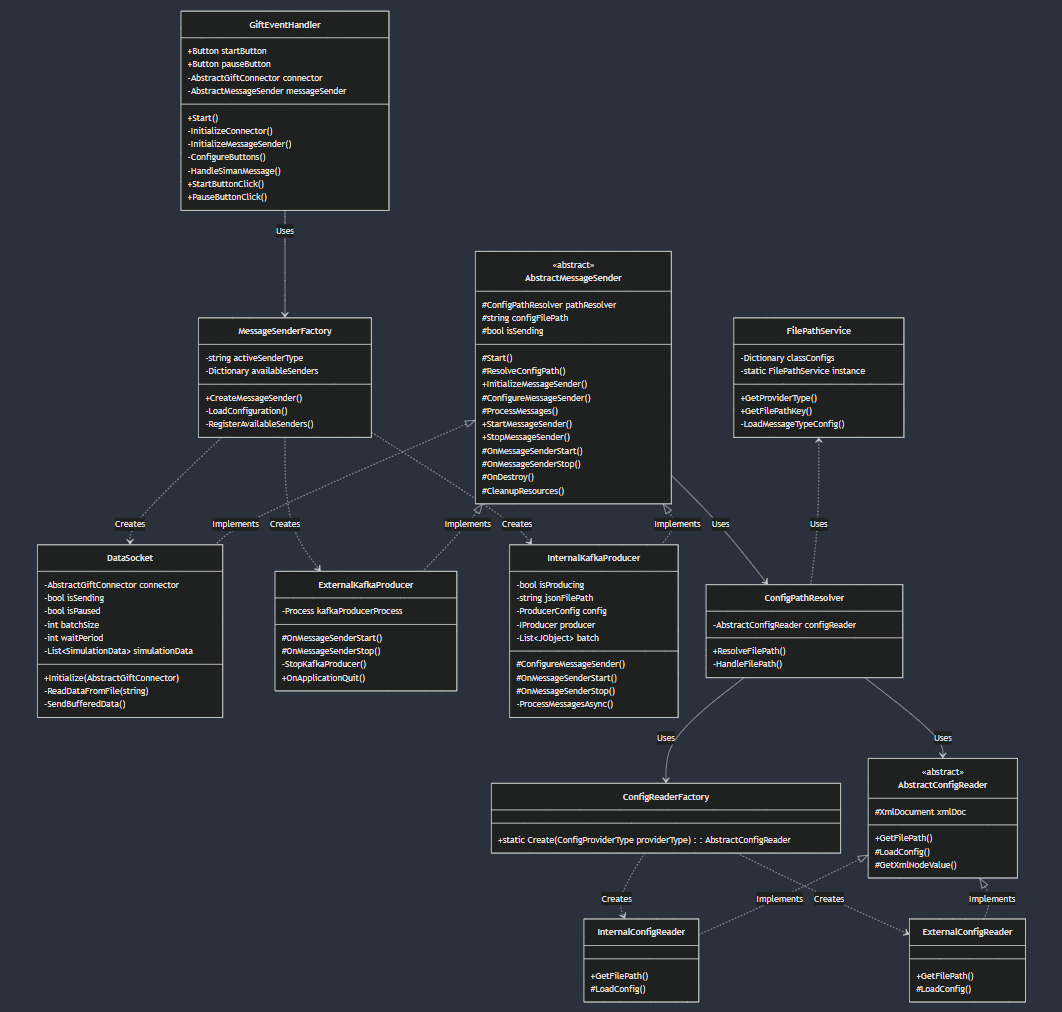
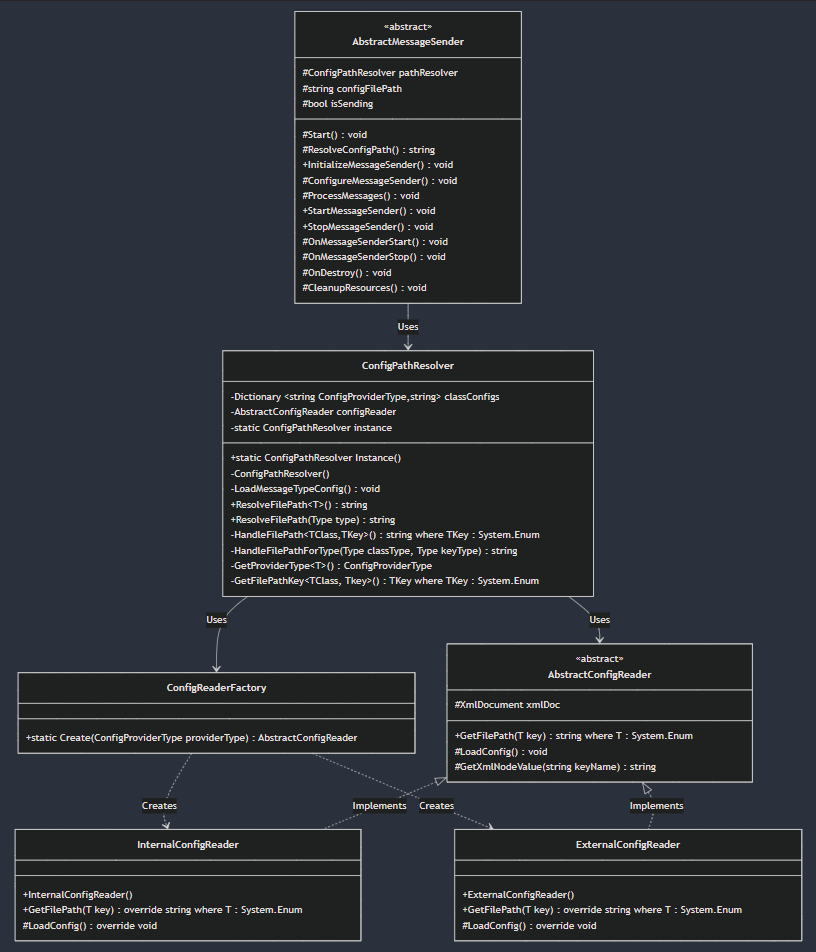
Updated the running notes to have the latest changes

diff --git a/Documentation/RunningNotes.md b/Documentation/RunningNotes.md
@@ -41,37 +41,45 @@ The class diagram for the above is here ![GIFT Interop Plugin Class Diagram](GIF
 
 **Unity Side interop plugin design pattern**
 
-1) We are using [GiftEventHandler.cs](https://github.com/kgary/steel-artt-unity-team-se/blob/unity-with-kafka-producer/unity-template/Assets/GiftEventHandler.cs), which manages connections by **sending acknowledgments (ACKs)** for each of the different SIMAN control messages received by GIFT (load, start, stop, pause, resume, restart). It also **provides methods to initialize, start, and stop different message-sender** types based on the currently selected one (InternalKafka, ExternalKafka, and DataSocket). The Start and Stop methods are triggered when the respective buttons are clicked.
+1) [GiftEventHandler.cs](https://github.com/jvaida/STTC-XR-Multiplayer/blob/main/Unity-VR/unity-vr-app/Assets/GiftEventHandler/GiftEventHandler.cs)
+Manages the overall flow of message handling and UI interactions. Uses MessageSenderFactory to create appropriate message sender instances. Handles SIMAN control messages (load, start, stop, pause, resume, restart) from GIFT and manages the complete lifecycle of message senders through UI button controls. Also controls message sender initialization and coordinates between UI interactions and message processing while managing GiftConnector initialization.
 
-2) In [InternalKafkaProducer.cs](https://github.com/kgary/steel-artt-unity-team-se/blob/unity-with-kafka-producer/unity-template/Assets/DataMessageHandler/InternalKafkaProducer.cs), we have integrated Kafka directly with Unity using the Confluent.Kafka library. It initializes **a Kafka producer that runs within Unity**, periodically reads new lines from a JSON file, batches the data, and sends it asynchronously to a specified Kafka topic. It also provides start/stop functionality for the production process. The file path for the JSON data is retrieved using `ConfigReader.cs`.
+2) [AbstractMessageSender](https://github.com/jvaida/STTC-XR-Multiplayer/blob/main/Unity-VR/unity-vr-app/Assets/DataMessageHandler/AbstractMessageSender.cs)
+Abstract base class that provides a template for message sending implementations. Manages the lifecycle of message senders including initialization, starting, stopping, and cleanup. Uses ConfigPathResolver to obtain configuration paths and maintains sending state.
 
-3) [ExternalKafkaProducer.cs](https://github.com/kgary/steel-artt-unity-team-se/blob/unity-with-kafka-producer/unity-template/Assets/DataMessageHandler/ExternalKafkaProducer.cs) manages an external Kafka producer process. It reads the path of **an external Kafka producer executable** from a configuration file using `ConfigReader.cs`. The Start method launches this external process when the script is initialized, and the Stop method terminates the external process when called or when the Unity application quits. This approach allows Unity to interact with a Kafka producer running as a separate process, rather than integrating Kafka directly into the Unity application.
+3) [InternalKafkaProducer.cs](https://github.com/jvaida/STTC-XR-Multiplayer/blob/main/Unity-VR/unity-vr-app/Assets/DataMessageHandler/InternalKafkaProducer.cs)
+Implements AbstractMessageSender for direct Kafka integration within Unity using Confluent.Kafka library. Configures and manages an internal Kafka producer that handles asynchronous message processing and batching. Reads and processes JSON data files while managing producer resources and batch processing with configurable parameters.
 
-4) In [DataSocket.cs](https://github.com/kgary/steel-artt-unity-team-se/blob/unity-with-kafka-producer/unity-template/Assets/DataMessageHandler/DataSocket.cs), Unity is integrated with a GIFT connector to send trainee data in batches. It reads data from a file, batches it according to a specified size, and sends it asynchronously **through a socket connection** to GIFT. The script provides functionality to start, pause, and resume sending data, with configurable batch size and delay between batches. The file path for the data file is retrieved using `ConfigReader.cs`, ensuring the system can dynamically access the correct file for processing.
+4) [ExternalKafkaProducer.cs](https://github.com/jvaida/STTC-XR-Multiplayer/blob/main/Unity-VR/unity-vr-app/Assets/DataMessageHandler/ExternalKafkaProducer.cs)
+Implements AbstractMessageSender to manage an external Kafka producer process. Handles the complete lifecycle of an external process including startup, monitoring, and shutdown. Manages process coordination through configuration-based execution and ensures proper cleanup during application quit.
 
-5) In [ConfigReader.cs](https://github.com/kgary/steel-artt-unity-team-se/blob/unity-with-kafka-producer/unity-template/Assets/DataMessageHandler/ConfigReader.cs), a static method GetFilePath is provided to **read and extract file paths** from config.txt stored in Assets/Resources. The method loads the txt file, splits it into lines, and retrieves the line corresponding to a specified index. If the line contains a valid file path (prefixed with "FilePath="), it extracts and returns the path.
+5) [DataSocket.cs](https://github.com/jvaida/STTC-XR-Multiplayer/blob/main/Unity-VR/unity-vr-app/Assets/DataMessageHandler/DataSocket.cs)
+Implements AbstractMessageSender for socket-based communication with GIFT. Manages socket connections while handling batched data transmission with configurable batch sizes. Implements data buffering for efficient transmission through asynchronous sending mechanisms.
+
+6) [MessageSenderFactory.cs](https://github.com/jvaida/STTC-XR-Multiplayer/blob/main/Unity-VR/unity-vr-app/Assets/GiftEventHandler/MessageSenderFactory.cs)
+Creates and configures message sender instances based on configuration. Handles dynamic sender type registration and configuration-based creation while managing sender initialization. Provides type-safe sender instantiation and dependency injection for created instances.
 
 The class diagram for this is here ![Unity Interop Plugin Class Diagram](Unity_Steelartt_Class_Diagram.png "Class Diagram")
 
 
 **Unity Side Config Reader**
 
-1) [ConfigPathResolver](https://github.com/kgary/steel-artt-unity-team-se/blob/unity-with-kafka-producer/unity-template/Assets/Config/ConfigPathResolver.cs)
-Resolves file paths for different components by determining their provider type and handling path resolution through appropriate config readers. Acts as the main entry point for clients needing configuration paths.
+1) [AbstractMessageSender](https://github.com/jvaida/STTC-XR-Multiplayer/blob/main/Unity-VR/unity-vr-app/Assets/DataMessageHandler/AbstractMessageSender.cs)
+Abstract base class that provides a template for message sending implementations. Manages the lifecycle of message senders including initialization, starting, stopping, and cleanup. Uses ConfigPathResolver to obtain configuration paths and maintains sending state.
 
-2) [FilePathService](https://github.com/kgary/steel-artt-unity-team-se/blob/unity-with-kafka-producer/unity-template/Assets/Config/FilePathService.cs)
-Manages the mapping between classes and their configuration data (provider types and file path keys). Loads configuration from MessageTypeConfig.xml and provides access to configuration settings through a centralized singleton instance.
+2) [ConfigPathResolver](https://github.com/jvaida/STTC-XR-Multiplayer/blob/main/Unity-VR/unity-vr-app/Assets/Config/ConfigPathResolver.cs)
+Singleton class that resolves configuration file paths using config readers. Manages class-to-provider type mappings and coordinates with ConfigReaderFactory to obtain appropriate readers.
 
-3) [AbstractConfigReader](https://github.com/kgary/steel-artt-unity-team-se/blob/unity-with-kafka-producer/unity-template/Assets/Config/AbstractConfigReader.cs)
-Abstract base class defining the contract for reading configuration files. Provides common XML handling functionality while allowing specific implementations to define how they load and retrieve file paths.
+3) [AbstractConfigReader](https://github.com/jvaida/STTC-XR-Multiplayer/blob/main/Unity-VR/unity-vr-app/Assets/Config/AbstractConfigReader.cs)
+Abstract base class for configuration readers. Manages XML document handling and defines the contract for path resolution. Provides shared XML parsing functionality through protected methods.
 
-4) [InternalConfigReader](https://github.com/kgary/steel-artt-unity-team-se/blob/unity-with-kafka-producer/unity-template/Assets/Config/InternalConfigReader.cs)
-Implementation of AbstractConfigReader for reading internalConfig.xml. Specifically handles paths defined by InternalFilePathKey enum, typically for internal system components.
+4) [InternalConfigReader](https://github.com/jvaida/STTC-XR-Multiplayer/blob/main/Unity-VR/unity-vr-app/Assets/Config/InternalConfigReader.cs)
+Implementation of AbstractConfigReader for internal configurations. Overrides LoadConfig for internal-specific loading logic and implements GetFilePath<T> for internal path resolution.
 
-5) [ExternalConfigReader](https://github.com/kgary/steel-artt-unity-team-se/blob/unity-with-kafka-producer/unity-template/Assets/Config/ExternalConfigReader.cs)
-Implementation of AbstractConfigReader for reading externalConfig.xml. Manages paths defined by ExternalFilePathKey enum, typically for components that interact with external systems.
+5) [ExternalConfigReader](https://github.com/jvaida/STTC-XR-Multiplayer/blob/main/Unity-VR/unity-vr-app/Assets/Config/ExternalConfigReader.cs)
+Implementation of AbstractConfigReader for external configurations. Overrides LoadConfig for external-specific loading logic and implements GetFilePath<T> for external path resolution.
 
-6) [ConfigReaderFactory](https://github.com/kgary/steel-artt-unity-team-se/blob/unity-with-kafka-producer/unity-template/Assets/Config/ConfigReaderFactory.cs)
-Creates appropriate config reader instances based on the provider type. Centralizes the logic for instantiating different types of configuration readers (internal/external).
+6) [ConfigReaderFactory](https://github.com/jvaida/STTC-XR-Multiplayer/blob/main/Unity-VR/unity-vr-app/Assets/Config/ConfigReaderFactory.cs)
+Static factory class that instantiates appropriate config reader (Internal/External) based on ConfigProviderType. Acts as a creation point for configuration readers.
 
 The class diagram for this is here ![ConfigReader Class Diagram](Unity_ConfigReader.png "Class Diagram")
